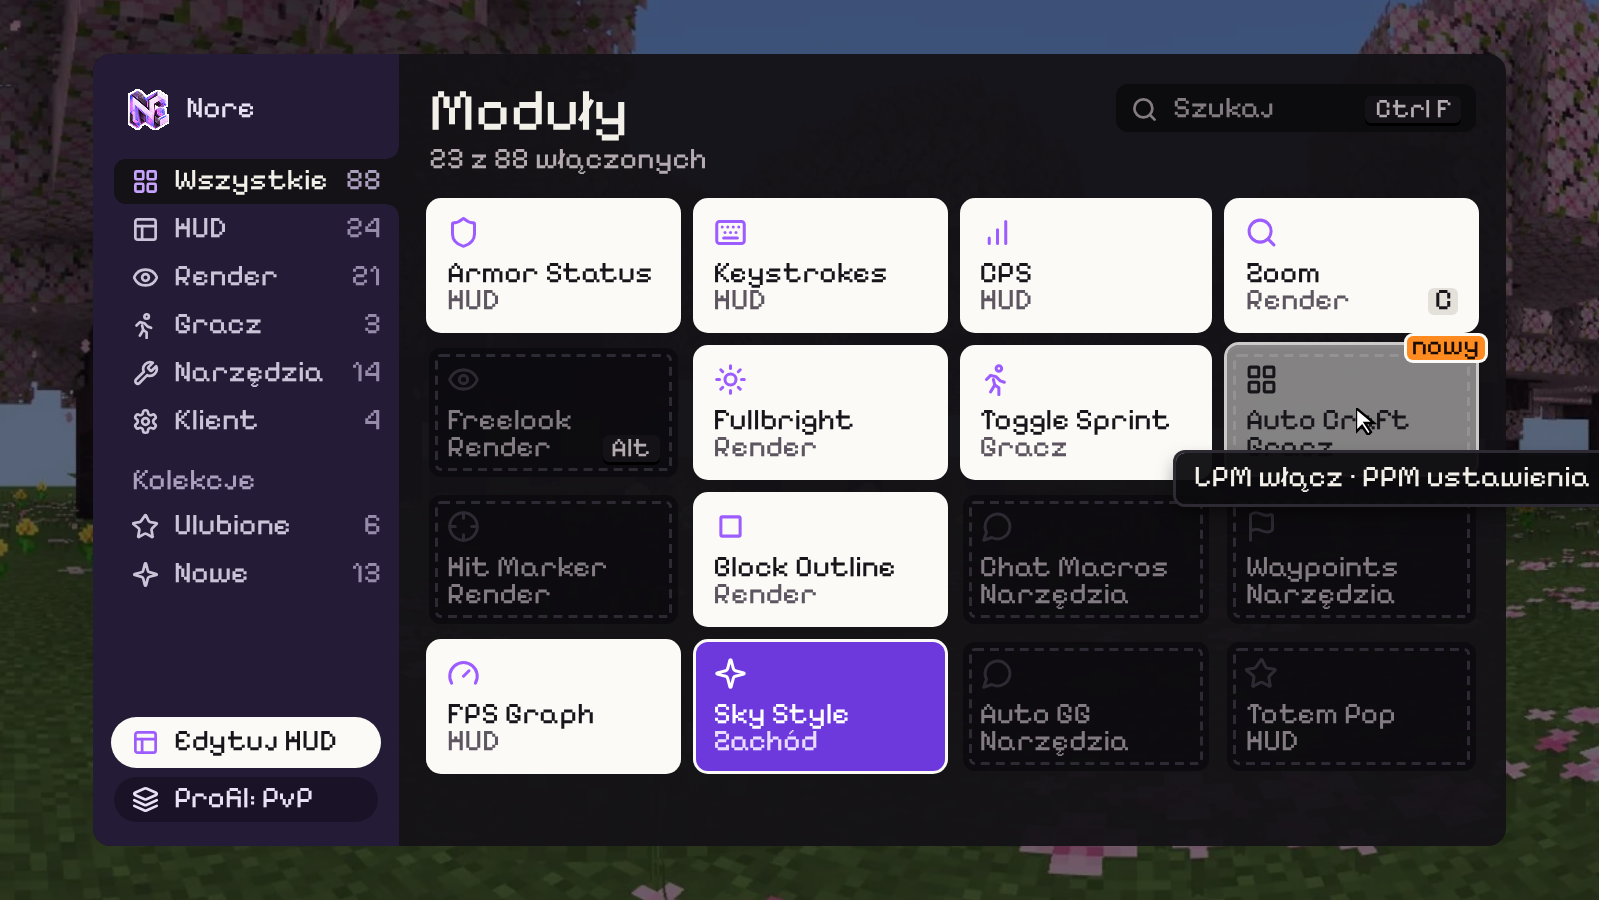
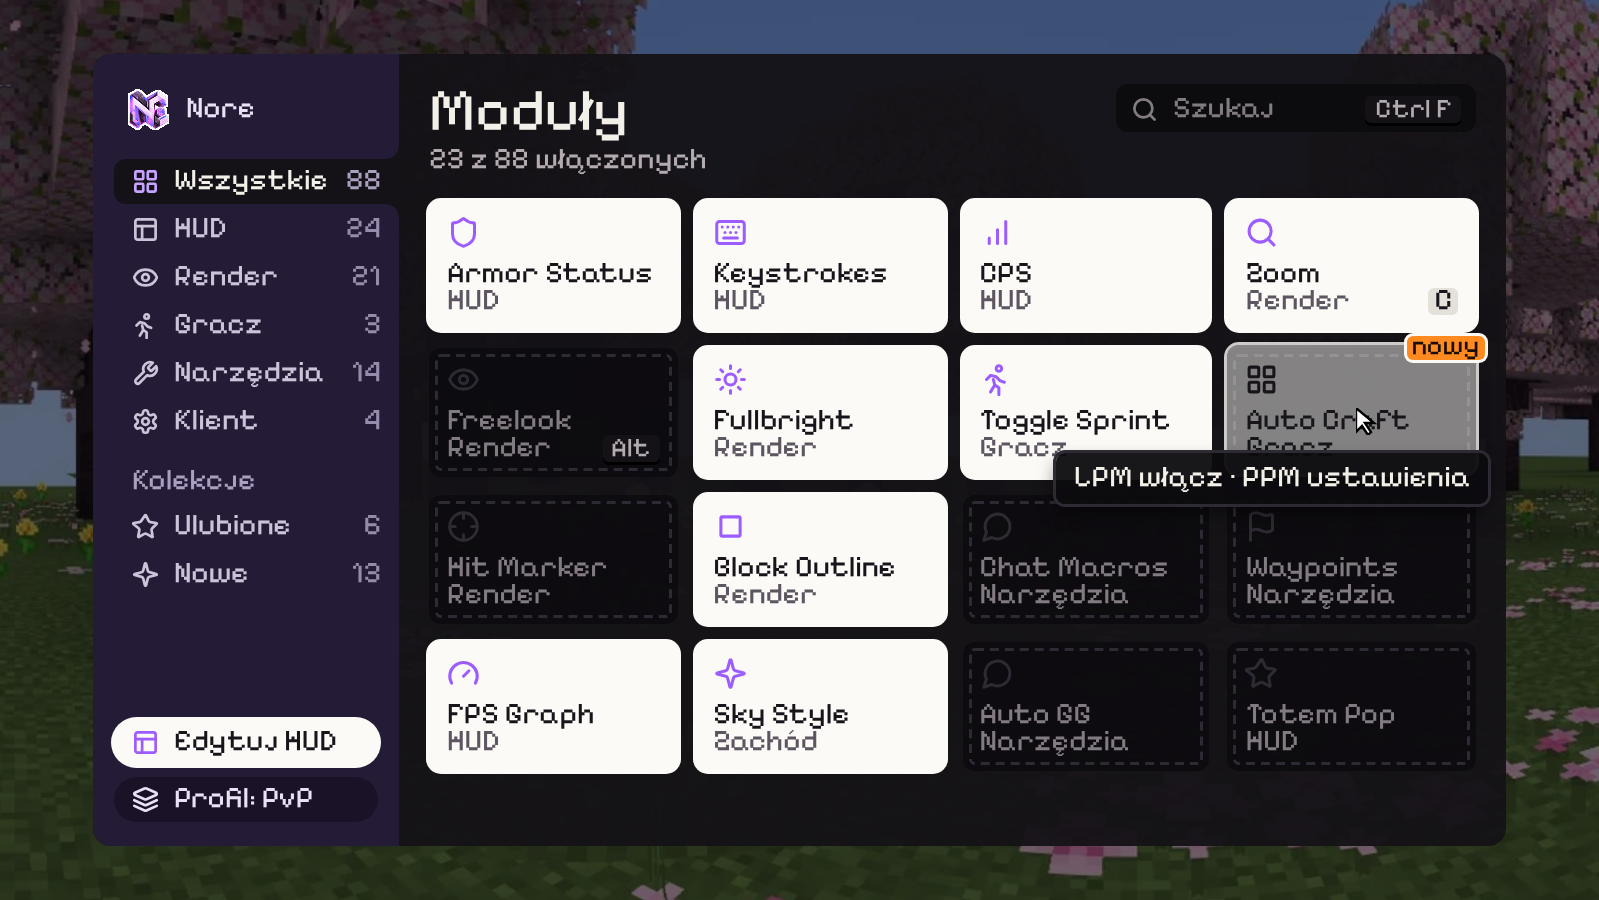
Album mocks: ClickGUI tooltip and sticker states, Nore MC mobile nav
Claude-Session: https://claude.ai/code/session_01VTrStubm5PzHAm6YobFPct

Changed region(s): [[0.429, 0.7156, 0.6129, 0.8711], [0.6435, 0.4978, 1.0, 0.5911]]

diff --git a/design/mocks/game-clickgui.html b/design/mocks/game-clickgui.html
@@ -45,7 +45,7 @@
   .m.preview .ghost { position: absolute; inset: 0; border-radius: 4px; background: rgba(251, 250, 247, .5); box-shadow: 0 0 0 1px rgba(251, 250, 247, .8), 0 3px 5px -1px rgba(0, 0, 0, .5); translate: 0 -1px; }
   .m.preview .name, .m.preview .gic, .m.preview .cat { position: relative; color: var(--nore-vinyl-ink); }
   .new { position: absolute; right: -3px; top: -4px; height: 8px; padding: 0 2px; border-radius: 2px; background: var(--nore-dot-event); color: #1a0d04; font-size: 9px; line-height: 8px; box-shadow: 0 0 0 1px var(--nore-vinyl); }
-  .tip { position: absolute; z-index: 5; left: 392px; top: 151px; padding: 4px 6px; border-radius: 3px; background: #0c0b0ef2; box-shadow: 0 0 0 1px #2e2a33, 0 3px 6px rgba(0, 0, 0, .5); white-space: nowrap; }
+  .tip { position: absolute; z-index: 5; left: 352px; top: 151px; padding: 4px 6px; border-radius: 3px; background: #0c0b0ef2; box-shadow: 0 0 0 1px #2e2a33, 0 3px 6px rgba(0, 0, 0, .5); white-space: nowrap; }
   .ms { position: absolute; left: 434px; top: 118px; width: 9px; height: 9px; z-index: 6; }
 </style>
 </head>
@@ -82,7 +82,7 @@
       <div class="m gslot"><span class="top"><svg class="gic"><use href="#i-chat"/></svg></span><span class="name">Chat Macros</span><span class="cat">Narzędzia</span></div>
       <div class="m gslot"><span class="top"><svg class="gic"><use href="#i-flag"/></svg></span><span class="name">Waypoints</span><span class="cat">Narzędzia</span></div>
       <div class="m gst white"><span class="top"><svg class="gic"><use href="#i-gauge"/></svg></span><span class="name">FPS Graph</span><span class="cat">HUD</span></div>
-      <div class="m gst violet"><span class="top"><svg class="gic" style="color:#fff"><use href="#i-sparkles"/></svg></span><span class="name">Sky Style</span><span class="cat" style="color:#e9dcff">Zachód</span></div>
+      <div class="m gst white"><span class="top"><svg class="gic"><use href="#i-sparkles"/></svg></span><span class="name">Sky Style</span><span class="cat">Zachód</span></div>
       <div class="m gslot"><span class="top"><svg class="gic"><use href="#i-chat"/></svg></span><span class="name">Auto GG</span><span class="cat">Narzędzia</span></div>
       <div class="m gslot"><span class="top"><svg class="gic"><use href="#i-star"/></svg></span><span class="name">Totem Pop</span><span class="cat">HUD</span></div>
     </div>

diff --git a/design/mocks/web-server.html b/design/mocks/web-server.html
@@ -66,6 +66,7 @@
   @media (max-width: 760px) {
     .nav .links { display: none; } .nav .pill { margin-left: auto; }
     .hero { grid-template-columns: 1fr; min-height: 0; padding-top: 20px; }
+    .nav .mark { white-space: nowrap; } .nav .mark small { display: none; }
     .hero h1 { font-size: 64px; }
     .world { order: -1; width: 82%; margin: 10px auto 0; aspect-ratio: 5 / 4; }
     .ip { width: 100%; justify-content: space-between; font-size: 26px; padding: 16px 18px; }
